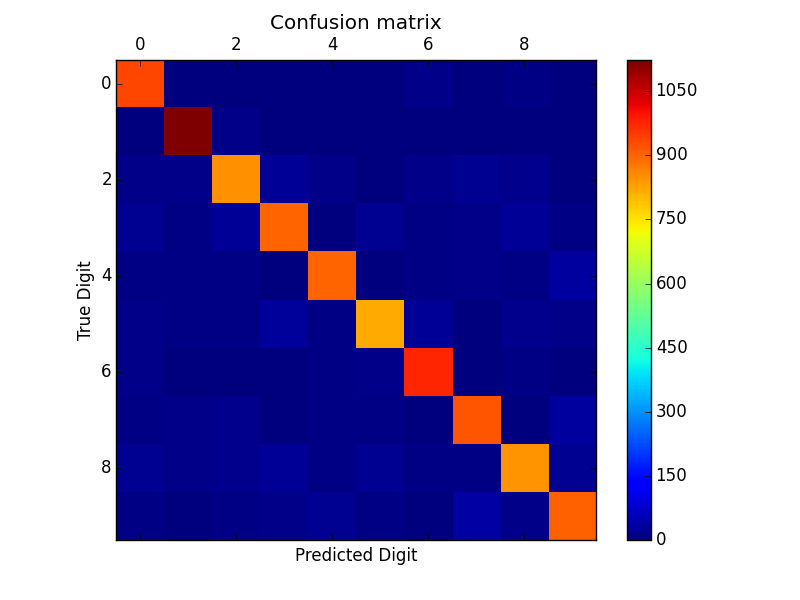
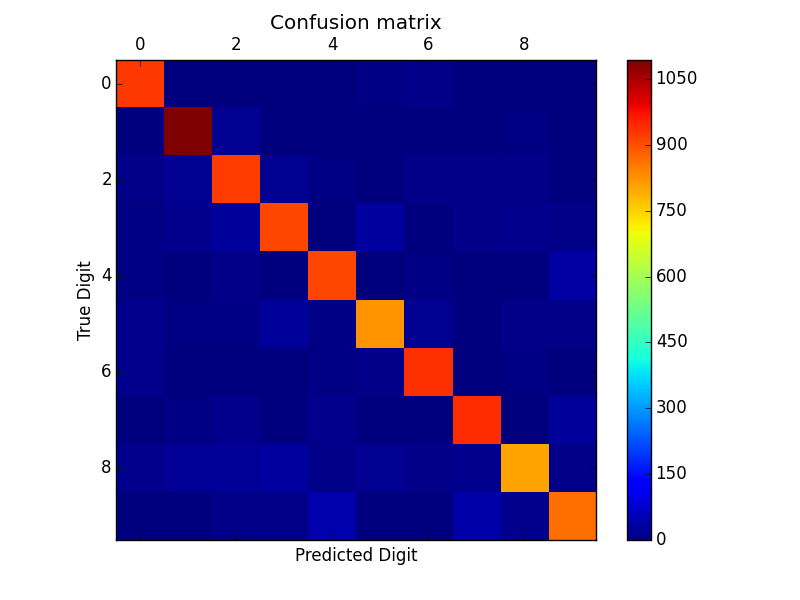
Problem 1 HW3 done. 6 to go :E

diff --git a/HW3/problem1.py b/HW3/problem1.py
@@ -1,0 +1,82 @@
+from numpy.random import choice
+import numpy as np
+import pylab as plt
+
+NUM_SAMPLES = 100
+
+# the normal function takes mu, sigma (not sigma squared)
+# returns NUM_SAMPLES number of normally distributed samples
+X1 = np.random.normal(3, 3, NUM_SAMPLES)
+X2 = np.random.normal(4, 2, NUM_SAMPLES) + 0.5*X1
+
+# mean of sampled data, rounded to 2 decimals
+mu = [np.around(np.mean(X1),2), np.around(np.mean(X2),2)]
+
+###################################
+# answer to part a of the question
+###################################
+print "a) Means of the Sampled Data"
+print "   X1:", mu[0], "  X2", mu[1]
+
+# XY matrix - x1 in top row, x2 in bottom row - so that we 
+# can calculate covariance using np.cov
+X1X2 = np.vstack((X1, X2))
+
+# np.cov takes: A 1-D or 2-D array containing multiple variables and
+# observations. Each row of `m` represents a variable, and each column
+# a single observation of all those variables.
+Covariance = np.cov(X1X2)
+
+###################################
+# answer to part b of the question
+###################################
+print "b) Covariance of the Sampled Data"
+print "  ", Covariance
+
+# calculate eig values and eig vectors
+eigenvalues, eigenvectors = np.linalg.eig(Covariance)
+
+###################################
+# answer to part c of the question
+###################################
+print "c) Eigenvalues and Eigenvectors of the Sampled Data"
+print "   Eigenvalues:", eigenvalues 
+print "   Eigenvectors:", eigenvectors 
+
+###################################
+# answer to part d of the question
+###################################
+plt.scatter(X1, X2)
+plt.xlim([-15, 15])
+plt.ylim([-15, 15])
+plt.grid()
+plt.hold('on')
+plt.arrow(np.mean(X1), np.mean(X2), eigenvalues[0]*eigenvectors[0][0], eigenvalues[0]*eigenvectors[1][0], head_width=0.3, head_length=0.5)
+plt.arrow(np.mean(X1), np.mean(X2), eigenvalues[1]*eigenvectors[0][1], eigenvalues[1]*eigenvectors[1][1], head_width=0.3, head_length=0.5)
+
+plt.figure()
+
+U = np.mat(eigenvectors)
+
+mu_100 = np.mat(np.ones((2,NUM_SAMPLES)))
+mu_100[0:,]*= mu[0]
+mu_100[1:,]*= mu[1]
+
+###################################
+# answer to part e of the question
+###################################
+[X1_new, X2_new] = np.transpose(U)*(np.mat(X1X2)-mu_100)
+Covariance_new = np.cov(np.vstack((X1_new, X2_new)))
+eigvalue_new, eigvect_new = np.linalg.eig(Covariance_new)
+
+plt.scatter(X1_new, X2_new)
+plt.xlim([-15, 15])
+plt.ylim([-15, 15])
+plt.grid()
+plt.hold('on')
+
+plt.arrow(np.mean(X1_new), np.mean(X2_new), eigvalue_new[0]*eigvect_new[0][0], eigvalue_new[0]*eigvect_new[1][0], head_width=0.3, head_length=0.5)
+plt.arrow(np.mean(X1_new), np.mean(X2_new), eigvalue_new[1]*eigvect_new[0][1], eigvalue_new[1]*eigvect_new[1][1], head_width=0.3, head_length=0.5)
+
+
+plt.show()

diff --git a/HW3/problem3.py b/HW3/problem3.py
@@ -1,0 +1,91 @@
+import numpy as np
+import pylab as plt
+from sympy.solvers import solve
+from sympy import Symbol
+
+###############
+# a
+###############
+
+mu_a = np.mat([[1], [1]])
+sigma_a = np.mat([[2, 0], [0,1]])
+
+# p = 0.1
+
+# constant = -2*np.log(2*np.pi*np.sqrt(np.linalg.det(sigma_a))*p)
+
+# print mu_a.shape, sigma_a.shape, constant
+
+
+def isocontourer(x2, constant):
+    x = Symbol('x')
+    return(solve(2*x**2+8*x+3*x2**2-14*x2-2*x*x2-constant))
+# 
+# for constant in [0, 1, 10]:
+#     plt.plot(*class2(np.linspace(0, 1, 100), np.linspace(0, 1, 100), constant))
+# print "PLOTTED!!"  
+
+
+
+def class2(x2, constant):
+    x1 = 1 + np.sqrt(2*(constant-(x2-1)**2))
+    return x1
+
+def class1(x2, constant):
+    x1 = 1 - np.sqrt(2*(constant-(x2-1)**2))
+    return x1
+
+plt.hold('on')
+
+for constant in np.linspace(0.1, 1000, 20):
+    ellipse1 = []
+    ellipse2 = []
+    x_a = []
+    for x2 in np.linspace(-100, 100, 5000):
+        if (2*(constant-(x2-1)**2)) >= 0:   
+            sol1, sol2 = class1(x2, constant), class2(x2, constant)
+            ellipse1.append(sol1)
+            ellipse2.append(sol2)
+            x_a.append(x2)
+    ellipse1 += (ellipse2)
+    ellipse1.append(ellipse1[0])
+    x_a += x_a[::-1]
+    x_a.append(x_a[0])
+    plt.plot(x_a, ellipse1)
+
+plt.ylim((-50, 50))
+plt.xlim((-50, 50))
+
+
+plt.figure()
+
+for constant in np.linspace(0, 200, 10):
+    ellipse1 = []
+    ellipse2 = []
+    x_b = []
+    for x2 in np.linspace(-100, 100, 100):
+        sol1, sol2 = isocontourer(x2, constant)
+        print type(complex(1))
+        if (isinstance(complex(sol1), complex) == False) and (isinstance(complex(sol2), complex) == False): 
+            print sol1, sol2
+            ellipse1.append(sol1)
+            ellipse2.append(sol2)            
+            x_b.append(x2)
+#             print (np.array(ellipse1).flatten()).shape, np.array(x_b).shape
+#                 print isocontourer(x2, constant)
+        else:
+            print sol1, sol2
+            
+    if ellipse1 != []:
+        print ellipse1
+        ellipse1 += (ellipse2)
+        ellipse1.append(ellipse1[0])
+        x_b += x_b[::-1]
+        x_b.append(x_b[0])
+        print (np.array(ellipse1).flatten()).shape, np.array(x_b).shape
+        plt.plot(x_b, (ellipse1))
+
+
+
+
+plt.show()

diff --git a/HW1/problem1.py b/HW1/problem1.py
@@ -4,6 +4,7 @@
 # and 10,000. Make sure you set aside 10,000 other training points as a validation set.
 # You should expect accuracies between 70% and 90% at this stage
 from dynd._pydynd import linspace
+import matplotlib.cm as cm
 
 
 ###################################
@@ -31,7 +32,12 @@ def computeCV_Score(clf, data, labels, folds):
                 predicted_Digits = clf_local.predict(data[j])
                 for (elem1, elem2) in zip(predicted_Digits, labels[j]):
                     if elem1 == elem2:
-                        accuracy+=1                
+                        accuracy+=1
+                    else:
+                        print data[i].shape
+                        plt.imshow(data[i])
+                        plt.show()
+                
             j+=1
         scores.append(100.0*accuracy/((folds-1)*len(predicted_Digits)))
         i+=1
@@ -168,13 +174,13 @@ print 50*'='
 
 errorRate_array = []
 C = np.linspace(1,3,16)                   # array of values for parameter C
-training_Size = [100, 200, 500, 1000, 2000, 5000, 10000, 15000]
+training_Size = [100, 200, 500, 1000, 2000,]# 5000, 10000, 15000]
 for elem in training_Size:
     if DEBUG:
         print 50*'-'
         print "Shuffled Data and Label shape: ", len(shuffledData), len(shuffledLabels)
     
-    clf = svm.SVC(kernel='linear', C=C[8])
+    clf = svm.SVC(kernel='linear', C=1.4)
     clf.fit(shuffledData[:elem], np.array(shuffledLabels[:elem]))
     
     predicted_Digits = clf.predict(shuffledData[50000:])
